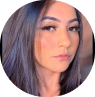
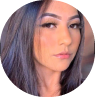
troca perfil p3

diff --git a/index.html b/index.html
@@ -5,7 +5,7 @@
     <meta charset="utf-8">
     <meta name="viewport" content="width=device-width, initial-scale=1">
     <link href="https://cdn.jsdelivr.net/npm/bootstrap@5.0.2/dist/css/bootstrap.min.css" rel="stylesheet" integrity="sha384-EVSTQN3/azprG1Anm3QDgpJLIm9Nao0Yz1ztcQTwFspd3yD65VohhpuuCOmLASjC" crossorigin="anonymous">
-    <link rel="stylesheet" href="./assets/css/style.css?v=08">
+    <link rel="stylesheet" href="./assets/css/style.css?v=09">
     <meta name="theme-color" content="#f08080d4" />
     <link rel="preconnect" href="https://fonts.googleapis.com">
     <link rel="preconnect" href="https://fonts.gstatic.com" crossorigin>
